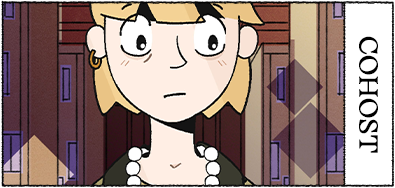
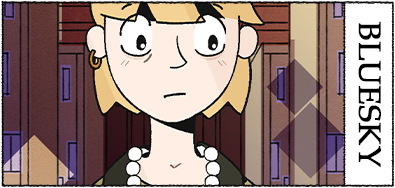
Added portfolio links and some other small updates

Changed region(s): [[0.881, 0.1064, 0.9722, 0.8777]]

diff --git a/index.html b/index.html
@@ -47,7 +47,9 @@
 			    <a href="art.html"><img src="img/icard-art.png"/></a>
 			</div>
 			
-			<p>Heyo! I'm Alec, Sly, 26. &#x2e1c;&#x28;&#xff61;&#x2c3;&#x20;&#x1d55;&#x20;&#x2c2;&#x20;&#x29;&#x2e1d;&#x2661; I love design, drawing with ink, jazz music, friends' OCs, programming, documentation, walking, and 3D modelling! I do design and layout stuff for an industrial company by day, and I'm lucky enough to be a project assistant on <a href="http://twitter.com/areyoshi/">areyoshi's</a> super-cool <a href="https://kattabolt.com/">Kattabolt</a> comic. My dream job is to make models, props, and environments for video games, my primary inspiration being Guild Wars 2. Tyyy for dropping by! &#x208a;&#x2da;&#x22b9;&#x2661;</p>
+			<a href="https://artstation.com/slyllama" target="_blank"><img style="margin-top: 1em;" src="img/portfolio-button.png" /></a>
+			
+			<p>Heyo! I'm Alec, Sly, 27. &#x2e1c;&#x28;&#xff61;&#x2c3;&#x20;&#x1d55;&#x20;&#x2c2;&#x20;&#x29;&#x2e1d;&#x2661; I love design, drawing with ink, jazz music, friends' OCs, programming, documentation, walking, and 3D modelling! I do design and layout stuff for an industrial company by day, and I'm lucky enough to be a project assistant on <a href="http://twitter.com/areyoshi/">areyoshi's</a> super-cool <a href="https://kattabolt.com/">Kattabolt</a> comic. My dream job is to make models, props, and environments for video games, my primary inspiration being Guild Wars 2. Tyyy for dropping by! &#x208a;&#x2da;&#x22b9;&#x2661;</p>
 			
 			<!--<audio style="width: 100%;" controls><source src="slysong.mp3" type="audio/mpeg"></audio>
 			
@@ -55,20 +57,18 @@
 			
 			<iframe width="560" height="315" src="https://www.youtube.com/embed/BclPMfOmi9Y?si=OPCsnerWVu6jgfP6" title="YouTube video player" frameborder="0" allow="accelerometer; autoplay; clipboard-write; encrypted-media; gyroscope; picture-in-picture; web-share" style="display: block; margin: 0 auto; max-width: 100%;" allowfullscreen></iframe>
 			
-			<p>This is a study project I finished recently! It features hand-made models, textures, and rigs. I'll do some writing on it soon (and remind me: I gotta add more stuff to the <a href="ceres.html">CERES</a> page) but here's something in the meantime.</p>
-			
-			<div style="height: 1em;">&nbsp;</div>
-			
-			<img src="img/desk.jpg" />
+			<p>This is a study project I finished recently! It features hand-made models, textures, and rigs. I'll do some writing on it soon (and remind me: I gotta add more stuff to the <a href="ceres.html">CERES</a> page) but here's something in the meantime. <b>You can check out some more <a href="https://www.artstation.com/artwork/NyDeQJ">process images and stuff here</a>!</b></p>
 			
 			<div class="index-grid" style="margin: 20px 0;">
 			    <a href="https://kattabolt.com/"><img src="img/icard-kattabolt.png"/></a>
-			    <a href="https://cohost.org/slyllama"><img src="img/icard-bsky.png"/></a>
+			    <a href="https://bsky.app/profile/slyllama.bsky.social"><img src="img/icard-bsky.png"/></a>
 			</div>
+			
+			<img src="img/desk.jpg" />
 			
 			<p style="text-align: center;">&#xe05;&#x5e;&#x2e;&#x5f;&#x2e;&#x5e;&#xe05;</p>
 			
-			<img src="img/roadtrip.jpg" />
+			<!--<img src="img/roadtrip.jpg" />-->
 		</div>
 	</div>
 </body>

diff --git a/src/index.html b/src/index.html
@@ -7,7 +7,9 @@
     <a href="art.html"><img src="img/icard-art.png"/></a>
 </div>
 
-<p>Heyo! I'm Alec, Sly, 26. &#x2e1c;&#x28;&#xff61;&#x2c3;&#x20;&#x1d55;&#x20;&#x2c2;&#x20;&#x29;&#x2e1d;&#x2661; I love design, drawing with ink, jazz music, friends' OCs, programming, documentation, walking, and 3D modelling! I do design and layout stuff for an industrial company by day, and I'm lucky enough to be a project assistant on <a href="http://twitter.com/areyoshi/">areyoshi's</a> super-cool <a href="https://kattabolt.com/">Kattabolt</a> comic. My dream job is to make models, props, and environments for video games, my primary inspiration being Guild Wars 2. Tyyy for dropping by! &#x208a;&#x2da;&#x22b9;&#x2661;</p>
+<a href="https://artstation.com/slyllama" target="_blank"><img style="margin-top: 1em;" src="img/portfolio-button.png" /></a>
+
+<p>Heyo! I'm Alec, Sly, 27. &#x2e1c;&#x28;&#xff61;&#x2c3;&#x20;&#x1d55;&#x20;&#x2c2;&#x20;&#x29;&#x2e1d;&#x2661; I love design, drawing with ink, jazz music, friends' OCs, programming, documentation, walking, and 3D modelling! I do design and layout stuff for an industrial company by day, and I'm lucky enough to be a project assistant on <a href="http://twitter.com/areyoshi/">areyoshi's</a> super-cool <a href="https://kattabolt.com/">Kattabolt</a> comic. My dream job is to make models, props, and environments for video games, my primary inspiration being Guild Wars 2. Tyyy for dropping by! &#x208a;&#x2da;&#x22b9;&#x2661;</p>
 
 <!--<audio style="width: 100%;" controls><source src="slysong.mp3" type="audio/mpeg"></audio>
 
@@ -15,17 +17,15 @@
 
 <iframe width="560" height="315" src="https://www.youtube.com/embed/BclPMfOmi9Y?si=OPCsnerWVu6jgfP6" title="YouTube video player" frameborder="0" allow="accelerometer; autoplay; clipboard-write; encrypted-media; gyroscope; picture-in-picture; web-share" style="display: block; margin: 0 auto; max-width: 100%;" allowfullscreen></iframe>
 
-<p>This is a study project I finished recently! It features hand-made models, textures, and rigs. I'll do some writing on it soon (and remind me: I gotta add more stuff to the <a href="ceres.html">CERES</a> page) but here's something in the meantime.</p>
-
-<div style="height: 1em;">&nbsp;</div>
-
-<img src="img/desk.jpg" />
+<p>This is a study project I finished recently! It features hand-made models, textures, and rigs. I'll do some writing on it soon (and remind me: I gotta add more stuff to the <a href="ceres.html">CERES</a> page) but here's something in the meantime. <b>You can check out some more <a href="https://www.artstation.com/artwork/NyDeQJ">process images and stuff here</a>!</b></p>
 
 <div class="index-grid" style="margin: 20px 0;">
     <a href="https://kattabolt.com/"><img src="img/icard-kattabolt.png"/></a>
-    <a href="https://cohost.org/slyllama"><img src="img/icard-bsky.png"/></a>
+    <a href="https://bsky.app/profile/slyllama.bsky.social"><img src="img/icard-bsky.png"/></a>
 </div>
+
+<img src="img/desk.jpg" />
 
 <p style="text-align: center;">&#xe05;&#x5e;&#x2e;&#x5f;&#x2e;&#x5e;&#xe05;</p>
 
-<img src="img/roadtrip.jpg" />
+<!--<img src="img/roadtrip.jpg" />-->

diff --git a/ceres.html b/ceres.html
@@ -40,6 +40,12 @@
 			<a id="mobile-header" href="index.html"><h1 class="mobile-title">Sly</h1></a>
 			<h1>CERES: The Planet That Never Sleeps</h1>
 			
+			<p><b>My work for the expansion is up <a href="https://www.artstation.com/artwork/qekPzz">here on Artstation</a>, please check it out! This one was really fun to work on, too.</b></p>
+			
+			<a href="https://www.artstation.com/artwork/qekPzz"><img style="display: block; margin: 0 auto; width: 300px;" src="img/cusc-ii.png"/></a>
+			
+			<p style="text-align: center;">* * *</p>
+			
 			<p>Earlier this year I assisted <a href="http://twitter.com/areyoshi/">areyoshi</a> on illustrating for <a href="https://tidalwavegames.com/post/701715068133523456/ceres-the-planet-that-never-sleeps">CERES: The Planet That Never Sleeps</a>, a TTRPG module publication from <a href="https://tidalwavegames.com/">Tidal Wave Games.</a> It was an incredibly fulfilling project; my main role was to set up architectural environments, which I really enjoy! We're currently looking ahead to CERES' supplement publication <a href="https://tidalwavegames.com/post/731098117326471168/the-cybernetics-catalogue-for-see-you-space">Cybernetic Enhancements</a>, which recently successfully closed its Kickstarter round. Looking forward to being a part of that one, too!</p>
 			
 			<img src="img/ceres-slums.jpg" />

diff --git a/src/ceres.html b/src/ceres.html
@@ -1,5 +1,11 @@
 <h1>CERES: The Planet That Never Sleeps</h1>
 
+<p><b>My work for the expansion is up <a href="https://www.artstation.com/artwork/qekPzz">here on Artstation</a>, please check it out! This one was really fun to work on, too.</b></p>
+
+<a href="https://www.artstation.com/artwork/qekPzz"><img style="display: block; margin: 0 auto; width: 300px;" src="img/cusc-ii.png"/></a>
+
+<p style="text-align: center;">* * *</p>
+
 <p>Earlier this year I assisted <a href="http://twitter.com/areyoshi/">areyoshi</a> on illustrating for <a href="https://tidalwavegames.com/post/701715068133523456/ceres-the-planet-that-never-sleeps">CERES: The Planet That Never Sleeps</a>, a TTRPG module publication from <a href="https://tidalwavegames.com/">Tidal Wave Games.</a> It was an incredibly fulfilling project; my main role was to set up architectural environments, which I really enjoy! We're currently looking ahead to CERES' supplement publication <a href="https://tidalwavegames.com/post/731098117326471168/the-cybernetics-catalogue-for-see-you-space">Cybernetic Enhancements</a>, which recently successfully closed its Kickstarter round. Looking forward to being a part of that one, too!</p>
 
 <img src="img/ceres-slums.jpg" />

diff --git a/threedee.html b/threedee.html
@@ -40,6 +40,12 @@
 			<a id="mobile-header" href="index.html"><h1 class="mobile-title">Sly</h1></a>
 			<h1>Three Dee Work</h1>
 			
+			<p><b>I've recently been trying to build my 3D portfolio in artstation, you can check it out here!</b></p>
+			
+			<a href="https://artstation.com/slyllama" target="_blank"><img style="margin-top: 1em;" src="img/portfolio-button.png" /></a>
+			
+			<p style="text-align: center;">* * *</p>
+			
 			<p>I've been trying to keep up with a variety of 3D modelling work recently. In fact I've been pretty inspired by <a href="https://www.guildwars2.com/en/">Guild Wars 2</a>; being with friends in such a beautiful three-dimensional <a href="https://www.theatlantic.com/family/archive/2022/04/third-places-meet-new-people-pandemic/629468/">third place</a> (virtually speaking) is so compelling that it makes one want to produce virtual urban space for oneself (even if one is very clumsy at it). Here are a couple of pieces from this year, and you can find some more on <a href="https://cohost.org/slyllama">cohost</a>.</p>
 			
 			<img src="img/3d-scruffy.jpg" />

diff --git a/dwelt.html b/dwelt.html
@@ -40,6 +40,12 @@
 			<a id="mobile-header" href="index.html"><h1 class="mobile-title">Sly</h1></a>
 			<h1>Dwelt</h1>
 			
+			<p><b>I've put some more information on Dwelt up on my <a href="https://www.artstation.com/artwork/8b3Pxx">portfolio here</a>! There is a video here too, which shows the game in action.</b></p>
+			
+			<a href="https://www.artstation.com/artwork/8b3Pxx"><img style="display: block; margin: 0 auto; width: 300px;" src="img/dwelt-thumb.png"/></a>
+			
+			<p style="text-align: center;">* * *</p>
+			
 			<img src="img/dwelt-1.jpg" />
 			
 			<p><i>Dwelt</i> has been a conceptual continuation of the ideas first practically explored in <a href="scruffy.html"><i>Scruffy</i></a>! Most of what we could say about it is on that page, so here are some screenshots instead. I did do some writing more recently on this iteration of Scruffy itself; you can find it <a href="https://cohost.org/slyllama/post/4445671-experiments-in-downt">on cohost here</a>!</p>

diff --git a/src/threedee.html b/src/threedee.html
@@ -1,5 +1,11 @@
 <h1>Three Dee Work</h1>
 
+<p><b>I've recently been trying to build my 3D portfolio in artstation, you can check it out here!</b></p>
+
+<a href="https://artstation.com/slyllama" target="_blank"><img style="margin-top: 1em;" src="img/portfolio-button.png" /></a>
+
+<p style="text-align: center;">* * *</p>
+
 <p>I've been trying to keep up with a variety of 3D modelling work recently. In fact I've been pretty inspired by <a href="https://www.guildwars2.com/en/">Guild Wars 2</a>; being with friends in such a beautiful three-dimensional <a href="https://www.theatlantic.com/family/archive/2022/04/third-places-meet-new-people-pandemic/629468/">third place</a> (virtually speaking) is so compelling that it makes one want to produce virtual urban space for oneself (even if one is very clumsy at it). Here are a couple of pieces from this year, and you can find some more on <a href="https://cohost.org/slyllama">cohost</a>.</p>
 
 <img src="img/3d-scruffy.jpg" />

diff --git a/src/dwelt.html b/src/dwelt.html
@@ -1,5 +1,11 @@
 <h1>Dwelt</h1>
 
+<p><b>I've put some more information on Dwelt up on my <a href="https://www.artstation.com/artwork/8b3Pxx">portfolio here</a>! There is a video here too, which shows the game in action.</b></p>
+
+<a href="https://www.artstation.com/artwork/8b3Pxx"><img style="display: block; margin: 0 auto; width: 300px;" src="img/dwelt-thumb.png"/></a>
+
+<p style="text-align: center;">* * *</p>
+
 <img src="img/dwelt-1.jpg" />
 
 <p><i>Dwelt</i> has been a conceptual continuation of the ideas first practically explored in <a href="scruffy.html"><i>Scruffy</i></a>! Most of what we could say about it is on that page, so here are some screenshots instead. I did do some writing more recently on this iteration of Scruffy itself; you can find it <a href="https://cohost.org/slyllama/post/4445671-experiments-in-downt">on cohost here</a>!</p>
